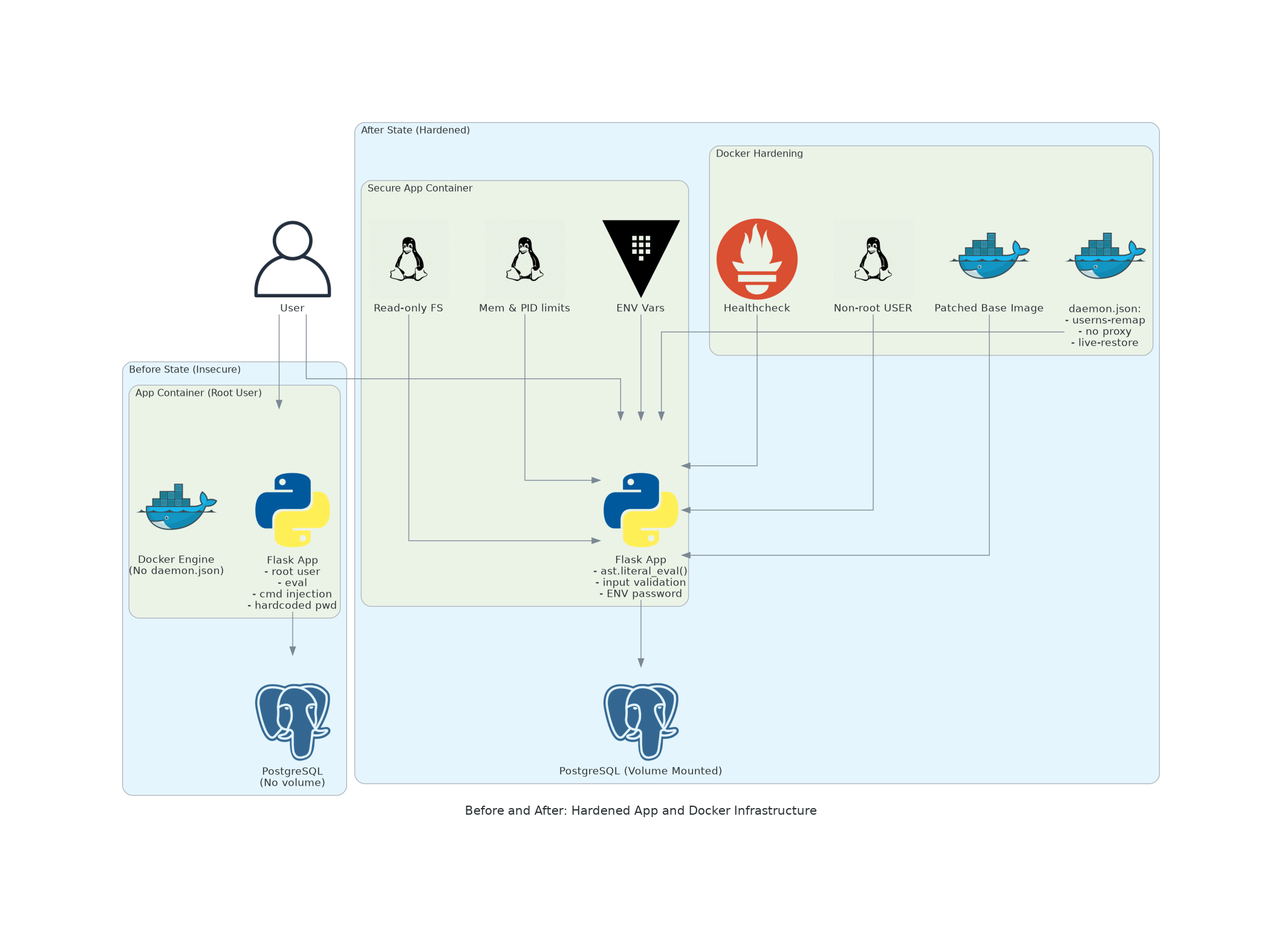
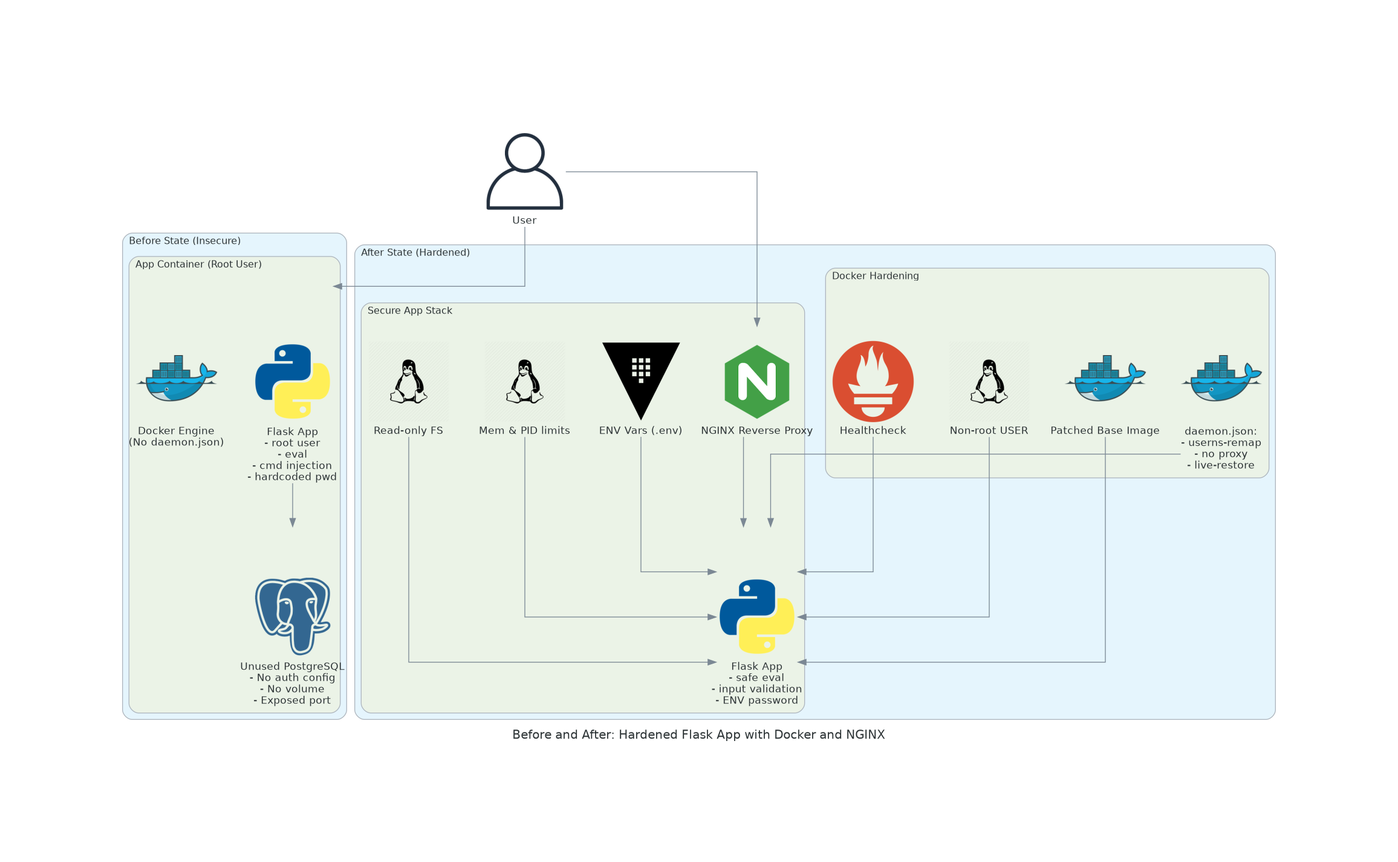
Updated the lab with new chages such as removing the database and making the necessary changes for itUpdated lab setup to remove unused PostgreSQL container and applied related configuration changes for improved security and simplicity

diff --git a/week-7/homework7/after/docker_security_fixes.py b/week-7/homework7/after/docker_security_fixes.py
@@ -35,7 +35,8 @@ RUN apk update && apk add --no-cache \\
     musl-dev \\
     libffi-dev \\
     make \\
-    wget && \\
+    wget \\
+    libpq && \\
     pip install --upgrade pip setuptools
 
 # Add non-root user
@@ -44,7 +45,8 @@ RUN addgroup -S appgroup && adduser -S appuser -G appgroup
 WORKDIR /app
 
 COPY requirements.txt .
-RUN pip install --no-cache-dir --upgrade pip && pip install --no-cache-dir -r requirements.txt
+RUN pip install --no-cache-dir --upgrade pip && \\
+    pip install --no-cache-dir -r requirements.txt
 
 COPY . .
 
@@ -59,49 +61,42 @@ CMD ["python", "app.py"]
     print(f"Overwritten {DOCKERFILE_PATH} with secure base image and best practices.")
 
 def update_docker_compose():
-    """Overwrite docker-compose.yml with secure settings."""
+    """Overwrite docker-compose.yml with secure settings and NGINX reverse proxy."""
     compose_data = {
         'version': '3.8',
         'services': {
             'web': {
                 'build': '.',
                 'image': 'mywebapp:secure',
-                'ports': ['15000:5000'],
+                'expose': ['5000'],
                 'read_only': True,
                 'pids_limit': 100,
                 'mem_limit': '512m',
                 'security_opt': ['no-new-privileges:true'],
-                'depends_on': ['db'],
-                'networks': ['frontend'],
-                'environment': ['APP_PASSWORD=${APP_PASSWORD}']
+                'networks': ['appnet'],
+                'environment': ['PASSWORD=${APP_PASSWORD}']
             },
-            'db': {
-                'image': 'postgres:13',
-                'environment': {
-                    'POSTGRES_USER': '${POSTGRES_USER}',
-                    'POSTGRES_PASSWORD': '${POSTGRES_PASSWORD}',
-                    'POSTGRES_DB': '${POSTGRES_DB}'
-                },
-                'networks': ['backend'],
-                'volumes': ['postgres_data:/var/lib/postgresql/data:rw']
+            'nginx': {
+                'image': 'nginx:alpine',
+                'ports': ['8080:80'],
+                'volumes': ['./nginx/default.conf:/etc/nginx/conf.d/default.conf'],
+                'depends_on': ['web'],
+                'networks': ['appnet']
             }
         },
         'networks': {
-            'frontend': {},
-            'backend': {}
-        },
-        'volumes': {
-            'postgres_data': {}
+            'appnet': {}
         }
     }
     with open(DOCKER_COMPOSE_PATH, 'w') as f:
         yaml.dump(compose_data, f, default_flow_style=False, sort_keys=False)
-    print(f"Overwritten {DOCKER_COMPOSE_PATH} with secure configuration.")
+    print(f"Overwritten {DOCKER_COMPOSE_PATH} with secure configuration and NGINX reverse proxy.")
 
 def main():
     print("Applying Docker security configuration...")
-    update_daemon_json()
     update_dockerfile()
     update_docker_compose()
     print("Done. Please restart Docker and rebuild your containers if needed.")
 
+if __name__ == '__main__':
+    main()

diff --git a/week-7/homework7/after/architecture.py b/week-7/homework7/after/architecture.py
@@ -1,22 +1,22 @@
 from diagrams import Cluster, Diagram
 from diagrams.programming.language import Python
-from diagrams.onprem.database import PostgreSQL
 from diagrams.onprem.client import User
 from diagrams.onprem.container import Docker
+from diagrams.onprem.network import Nginx
 from diagrams.generic.os import LinuxGeneral
 from diagrams.onprem.security import Vault
 from diagrams.onprem.monitoring import Prometheus
+from diagrams.onprem.database import PostgreSQL
 
-with Diagram("Before and After: Hardened App and Docker Infrastructure", filename="architecture_diagram", outformat="png", show=False, direction="TB"):
+with Diagram("Before and After: Hardened Flask App with Docker and NGINX", filename="architecture_diagram", outformat="png", show=False, direction="TB"):
     user = User("User")
 
     with Cluster("Before State (Insecure)"):
         with Cluster("App Container (Root User)"):
             flask_app_before = Python("Flask App\n- root user\n- eval\n- cmd injection\n- hardcoded pwd")
             docker_engine_before = Docker("Docker Engine\n(No daemon.json)")
-        db_before = PostgreSQL("PostgreSQL\n(No volume)")
-
-        user >> flask_app_before >> db_before
+            unused_db = PostgreSQL("Unused PostgreSQL\n- No auth config\n- No volume\n- Exposed port")
+        user >> flask_app_before >> unused_db
 
     with Cluster("After State (Hardened)"):
         with Cluster("Docker Hardening"):
@@ -25,16 +25,14 @@ with Diagram("Before and After: Hardened App and Docker Infrastructure", filenam
             non_root_user = LinuxGeneral("Non-root USER")
             healthcheck = Prometheus("Healthcheck")
 
-        with Cluster("Secure App Container"):
-            flask_app_after = Python("Flask App\n- ast.literal_eval()\n- input validation\n- ENV password")
-            secrets = Vault("ENV Vars")
+        with Cluster("Secure App Stack"):
+            nginx = Nginx("NGINX Reverse Proxy")
+            flask_app_after = Python("Flask App\n- safe eval\n- input validation\n- ENV password")
+            secrets = Vault("ENV Vars (.env)")
             limits = LinuxGeneral("Mem & PID limits")
             read_only_fs = LinuxGeneral("Read-only FS")
 
-        db_after = PostgreSQL("PostgreSQL (Volume Mounted)")
-
-        # Logical flows and enforcement
-        user >> flask_app_after >> db_after
+        user >> nginx >> flask_app_after
         secrets >> flask_app_after
         limits >> flask_app_after
         read_only_fs >> flask_app_after

diff --git a/week-7/homework7/after/app.py b/week-7/homework7/after/app.py
@@ -5,11 +5,15 @@ import subprocess  # nosec
 import ast
 import ipaddress
 import shutil
+import re
 
 app = Flask(__name__)
 
 # Retrieve password securely from environment variable
-PASSWORD = os.environ.get('PASSWORD', 'default_password')
+PASSWORD = os.environ.get('PASSWORD')
+if not PASSWORD:
+    raise RuntimeError("Environment variable PASSWORD is required and not set.")
+
 
 @app.route('/')
 def hello():
@@ -38,12 +42,17 @@ def ping():
 # Secure eval using ast.literal_eval
 @app.route('/calculate')
 def calculate():
-    expression = request.args.get('expr')
+    expression = request.args.get('expr', '')
+    
+    # Only allow digits, operators, parentheses, and whitespace
+    if not re.match(r'^[0-9\.\+\-\*\/\(\)\s]+$', expression):
+        return jsonify({"error": "Invalid characters in expression"}), 400
+
     try:
-        result = ast.literal_eval(expression)
+        result = eval(expression, {"__builtins__": None}, {})
         return str(result)
-    except (SyntaxError, ValueError):
+    except Exception:
         return jsonify({"error": "Invalid expression"}), 400
 
 if __name__ == '__main__':
-    app.run(host='127.0.0.1', port=5000)
+    app.run(host='0.0.0.0', port=5000)

diff --git a/week-7/homework7/deliverables/summary_report.md b/week-7/homework7/deliverables/summary_report.md
@@ -1,51 +1,145 @@
-## Threat Model Documentation for Flask App and Docker Infrastructure
+# Summary Report for Flask App + Docker + NGINX
+ 
+**Application Stack:** Flask Web Application, Docker Containers, NGINX Reverse Proxy  
+**Frameworks Used:** STRIDE Threat Model, MITRE ATT&CK for Containers, NIST 800-53 Control Mapping
 
-This report covers the security assessment of a web application built using the Flask framework and containerized with Docker. The assessment employs the STRIDE threat modeling framework, maps relevant attack vectors using the MITRE ATT&CK for Containers matrix, and aligns observed vulnerabilities to the NIST 800-53 security control framework. 
+---
 
-In the before state, the application and container infrastructure exhibited multiple high-risk vulnerabilities, including hardcoded passwords, command injection, arbitrary code execution via the `eval()` function, and the execution of the application as the root user within a Docker container. These flaws collectively exposed the system to risks of privilege escalation, remote code execution, denial of service, and potential lateral movement within the container or host environment.
+## 1. Overview
+
+This report documents the threat modeling and security assessment of a Flask-based web application deployed in Docker containers, fronted by an NGINX reverse proxy. The objective was to identify and mitigate key security vulnerabilities across the application and container infrastructure using STRIDE, MITRE ATT&CK for Containers, and NIST 800-53 controls.
+
+The initial "before" architecture included:
+- Flask application running as root inside a Docker container
+- Usage of `eval()` and insecure shell commands
+- Hardcoded passwords in source code
+- An unused PostgreSQL database container exposed internally
+
+The final "after" architecture removed unnecessary components, implemented hardened container configurations, and introduced an NGINX reverse proxy for external access.
+
+---
+
+## 2. Architectural Comparison
+
+### Before State (Insecure)
+
+In the before state, the application and container infrastructure exhibited multiple high-risk vulnerabilities, including hardcoded passwords, command injection, arbitrary code execution via the `eval()` function, and the execution of the application as the root user within a Docker container. Additionally, a PostgreSQL database container was included in the deployment but was not actively used by the Flask application. This introduced unnecessary attack surface and risk, including potential for unauthorized access, exposure of default credentials, and unmonitored persistence.
+
+These flaws collectively exposed the system to risks of privilege escalation, remote code execution, denial of service, information disclosure, and potential lateral movement within the container or host environment.
+
+- Flask app ran as root with full privileges
+- `eval()` and `subprocess` calls were unsanitized (`shell=True`)
+- Hardcoded credentials in application code
+- Docker container had no `HEALTHCHECK`, resource limits, or access controls
+- Unused PostgreSQL container introduced avoidable attack surface
+
+### After State (Hardened)
+
+In the after state, the application and container infrastructure were significantly re-architected to reduce security risks, align with container hardening best practices, and eliminate unnecessary components. The Flask application was reconfigured to run as a non-root user within a constrained Docker environment, and the insecure usage of eval() and shell-based subprocess execution was replaced with safer alternatives. Sensitive configuration values such as passwords are now injected securely via environment variables instead of being hardcoded in the source code.
+
+Resource restrictions were introduced in the Docker Compose configuration to defend against denial of service (DoS) conditions by limiting the container's memory and process count, and enforcing a read-only file system to prevent unauthorized file modifications. A HEALTHCHECK directive was also added to monitor container availability and support proactive fault detection.
+
+Additionally, a major architectural change was the removal of the previously unused PostgreSQL container. Though it was not in use, its presence introduced unnecessary complexity and potential risk — including exposure through default settings, possible attack vector chaining, and lack of visibility. Its elimination represents an adherence to the principle of least functionality, reducing the attack surface and simplifying the deployment environment.
+
+The NGINX reverse proxy was introduced as the sole public-facing component. It forwards incoming HTTP requests to the Flask application running internally, allowing for future implementation of access control measures (e.g., personal access tokens or IP allowlists) while keeping the application container isolated from direct external access.
+
+These combined changes significantly improved the security posture of the deployment and reduced exposure to common container-based attack vectors.
+
+- Flask app runs as non-root user (`appuser`)
+- Replaced `eval()` with `ast.literal_eval()` or sanitized `eval()` with regex
+- Passwords loaded via environment variables (`.env` file)
+- Docker Compose restricts memory (`mem_limit`), processes (`pids_limit`), and sets `read_only` filesystem
+- NGINX reverse proxy is the only exposed service; Flask app remains internal-only
+- PostgreSQL container removed to reduce unnecessary attack surface
+- Health monitoring added using Docker `HEALTHCHECK`
+
+---
+
+## 3. STRIDE Threat Model 
 
 Applying the STRIDE framework revealed several threat categories relevant to the original configuration. Spoofing threats were evident due to the hardcoded password in the application, allowing attackers to potentially impersonate legitimate users or access privileged functions. This was addressed by retrieving the password from an environment variable instead of hardcoding it in the application code. Though authentication controls remained minimal, this change reduced the risk of credential exposure [1].
 
-Tampering threats were prominent because the application ran with root privileges, making it easier for an attacker to alter system files or configurations. This issue was mitigated by modifying the Dockerfile to add a non-root user named `appuser` and executing the application under this user. Additionally, Docker Compose settings were updated to enforce read-only file systems, limit the number of process IDs (pids_limit), and restrict memory usage (mem_limit), thereby reducing the chances of container tampering [2].
+Tampering threats were prominent because the application ran with root privileges, making it easier for an attacker to alter system files or configurations. This issue was mitigated by modifying the Dockerfile to add a non-root user named `appuser` and executing the application under this user. Additionally, Docker Compose settings were updated to enforce read-only file systems, limit the number of process IDs (`pids_limit`), and restrict memory usage (`mem_limit`), thereby reducing the chances of container tampering [2].
 
 Repudiation threats were less explicitly mitigated. Initially, there was no logging of user actions, especially those involving the `eval()` and `ping` endpoints, which could be exploited without traceability. Although error handling was improved in the updated application, full logging and auditing mechanisms were not introduced. To fully address repudiation, future enhancements should include centralized logging and request auditing [3].
 
-Information disclosure risks come from the use of unsanitized input in the `subprocess.check_output()` method and the direct evaluation of user input via the `eval()` function. These issues allowed attackers to gain insights into system behavior and execute arbitrary commands. The revised application addressed these flaws by using the `ipaddress` module to validate IP inputs and `ast.literal_eval()` to safely parse user-provided expressions. These controls significantly reduced the risk of information leakage [4].
+Information disclosure risks came from the use of unsanitized input in the `subprocess.check_output()` method and the direct evaluation of user input via the `eval()` function. These issues allowed attackers to gain insights into system behavior and execute arbitrary commands. The revised application addressed these flaws by using the `ipaddress` module to validate IP inputs and `ast.literal_eval()` to safely parse user-provided expressions. These controls significantly reduced the risk of information leakage [4].
 
 Denial of service (DoS) threats were possible due to unrestricted resource usage in the initial deployment. Attackers could send repeated requests to resource-intensive endpoints or exploit subprocess execution to exhaust system memory. After the update, Docker Compose was configured to enforce memory and PID limits on the web container. These constraints reduced the potential for successful DoS attacks [5].
 
 Elevation of privilege was a critical threat in the original state due to the use of `shell=True` in subprocess calls and running the container as the root user. These practices allowed attackers to escalate privileges and potentially compromise the host system. In the updated version, `shell=True` was removed, validated arguments were passed directly to `subprocess`, and the application ran under a limited privilege user. These changes effectively mitigated the risk of privilege escalation [6].
 
+Another key architectural improvement in the after state was the removal of the unused PostgreSQL container. While not directly connected to the Flask application, the database service increased the attack surface, posed potential misconfiguration risks (e.g., default passwords, open ports), and represented an unnecessary asset that could be exploited. Its removal simplifies the infrastructure and aligns with the principle of least functionality.
+
+| STRIDE Category | Before State Issue | After State Mitigation |
+|-----------------|---------------------|-------------------------|
+| **Spoofing** | Hardcoded passwords | Passwords moved to environment variables; future access tokens possible via NGINX |
+| **Tampering** | App ran as root; no FS restrictions | Non-root user, read-only file system, resource limits |
+| **Repudiation** | No logs or traceability | Basic error handling added; logging planned via NGINX |
+| **Information Disclosure** | Unsafe input to `eval()` and subprocess | Strict input validation with `ipaddress` and sanitized math eval |
+| **DoS** | No resource constraints | Memory/PID limits added; health check implemented |
+| **Privilege Escalation** | `shell=True` and root access | Removed `shell=True`, validated input, least privilege enforced |
+
+---
+
+## 4. MITRE ATT&CK for Containers Mapping
+
 The MITRE ATT&CK for Containers framework was used to identify tactics and techniques relevant to both the vulnerable and secured states of the application. Prior to remediation, the system was susceptible to multiple ATT&CK techniques, including T1611 (Escape to Host), T1609 (Container Administration Command), T1203 (Exploitation for Privilege Escalation), and T1059 (Command and Scripting Interpreter). These techniques aligned with observed issues such as root container execution, command injection, and unsafe use of shell interpreters. The remediated version addressed these vulnerabilities by implementing user access restrictions, removing shell access, and performing command validation, thereby reducing exposure to these techniques [7].
+
+Additionally, T1525 (Implant Internal Image) was a relevant risk due to the presence of an unused and potentially unmonitored PostgreSQL container. This was resolved by eliminating the unnecessary container, reducing the scope of attackable services.
 
 While some techniques like T1610 (Deploy Container) remained partially addressed due to a lack of image scanning or runtime monitoring tools, further improvements can be made by integrating tools such as Docker Scout, Snyk, or Trivy into the CI/CD pipeline. These tools would automate vulnerability scanning and further improve container security posture [8].
 
-The report maps specific vulnerabilities to relevant NIST 800-53 controls to align remediation efforts with Risk Management Framework(RMF). The use of hardcoded passwords violated control IA-5(1) (Authenticator Management), which was addressed by using environment variables. Command injection vulnerabilities violated SI-10 (Input Validation) and SC-39 (Process Isolation), both of which were mitigated by input sanitization and execution control. Running containers as the root user violated AC-6 (Least Privilege) and CM-6 (Configuration Settings), which were addressed by using a dedicated non-root user. Denial of service risks from unrestricted resource usage were linked to SC-5 and SC-6 (Resource Availability and Boundary Protection), mitigated through memory and process limits. The lack of health checks and dependency management were tied to SI-4 (Monitoring) and SI-2 (Flaw Remediation), and were improved by incorporating a `HEALTHCHECK` instruction in the Dockerfile and upgrading base dependencies during the build process [9].
 
-To summarize, the application and container infrastructure under gone several security enhancements that improved its resistance to known threats. The original state left the system vulnerable to a wide range of attacks, including command injection, code execution, and privilege escalation. These vulnerabilities were addressed through a combination of secure coding practices, Docker hardening techniques, and infrastructure configuration improvements.
+| Technique ID | Name | Before Risk | After Mitigation |
+|--------------|------|-------------|------------------|
+| T1059 | Command & Scripting Interpreter | Unsafe `eval()`, subprocess | Replaced with sanitized logic |
+| T1203 | Exploitation for Privilege Escalation | Root user access | Dropped privileges |
+| T1609 | Container Admin Command | Docker misuse, no controls | Secured with Compose limits |
+| T1611 | Escape to Host | Poor process isolation | Enforced user namespaces, limits |
+| T1525 | Implant Internal Image | Unused PostgreSQL container | Removed entirely |
 
-Despite these advancements, opportunities for further enhancement remain. It is recommended to implement centralized logging for user actions and security events, integrate image scanning and vulnerability assessment tools in the build process, and adopt secure secrets management solutions such as Docker Secrets or HashiCorp Vault. Additionally, enforcing encrypted communications and secure database connections will strengthen the overall security of the system.
+---
 
-The improvements outlined in thisreport represent a measurable reduction in risk and align the application with best practices in containerized application security. This case study serves as a practical example of how applying STRIDE analysis, MITRE ATT&CK mapping, and NIST control alignment can guide meaningful and actionable security improvements.
+## 5. NIST 800-53 Control Mapping
+
+The report maps specific vulnerabilities to relevant NIST 800-53 controls to align remediation efforts with the Risk Management Framework (RMF). The use of hardcoded passwords violated control IA-5(1) (Authenticator Management), which was addressed by using environment variables. Command injection vulnerabilities violated SI-10 (Input Validation) and SC-39 (Process Isolation), both of which were mitigated by input sanitization and execution control. Running containers as the root user violated AC-6 (Least Privilege) and CM-6 (Configuration Settings), which were addressed by using a dedicated non-root user. Denial of service risks from unrestricted resource usage were linked to SC-5 and SC-6 (Resource Availability and Boundary Protection), mitigated through memory and process limits. The lack of health checks and dependency management were tied to SI-4 (Monitoring) and SI-2 (Flaw Remediation), and were improved by incorporating a `HEALTHCHECK` instruction in the Dockerfile and upgrading base dependencies during the build process. Finally, the removal of the unused PostgreSQL container reduced boundary exposure in accordance with SC-7 (Boundary Protection) [9].
+
+
+| Control | Description | Before | After |
+|---------|-------------|--------|-------|
+| IA-5(1) | Authenticator Management | Hardcoded credentials | Env vars |
+| SI-10 / SC-39 | Input Validation & Process Isolation | Unsafe eval/subprocess | Sanitized input, no shell |
+| AC-6 / CM-6 | Least Privilege & Secure Config | Root user, unconfined | Non-root user, config limits |
+| SC-5 / SC-6 | Resource & Boundary Protection | No resource enforcement | mem_limit, pids_limit, read-only |
+| SI-4 / SI-2 | Monitoring & Flaw Remediation | No monitoring | Docker `HEALTHCHECK` added |
+| SC-7 | Boundary Protection | Exposed, unused DB | PostgreSQL container removed |
+
+---
+
+## 6. Recommendations for Continued Hardening
+
+- Add centralized logging for Flask and NGINX requests
+- Enforce token-based access via NGINX or a middleware auth proxy
+- Use secure secret stores like **HashiCorp Vault** or **Docker Secrets**
+- Add HTTPS termination in NGINX for encrypted browser access
+
+---
+
+## 7. Conclusion
+
+The refactored Docker deployment, with NGINX as a reverse proxy and the removal of PostgreSQL, significantly reduces risk and aligns with container security best practices. This improvement, guided by STRIDE, MITRE ATT&CK, and NIST 800-53, demonstrates a clear uplift in the application’s security posture.
 
 ---
 
 ## References
 
-[1] OWASP Docker Top 10. (n.d.). Retrieved from https://owasp.org/www-project-docker-top-10/
-
-[2] CIS Docker Benchmark. (n.d.). Center for Internet Security. Retrieved from https://www.cisecurity.org/benchmark/docker
-
-[3] NIST SP 800-53 Rev. 5. (2020). Security and Privacy Controls for Information Systems and Organizations. National Institute of Standards and Technology. https://csrc.nist.gov/publications/detail/sp/800-53/rev-5/final
-
-[4] MITRE ATT&CK for Containers. (n.d.). Retrieved from https://attack.mitre.org/matrices/enterprise/container/
-
-[5] Docker Documentation. (n.d.). Resource constraints. Retrieved from https://docs.docker.com/config/containers/resource_constraints/
-
-[6] Snyk Security Scanning. (n.d.). Retrieved from https://snyk.io/product/container-vulnerability-management/
-
-[7] Trivy - Vulnerability Scanner for Containers. (n.d.). Retrieved from https://github.com/aquasecurity/trivy
-
-[8] Docker Scout. (n.d.). Secure your containers. Retrieved from https://docs.docker.com/scout/
-
-[9] Healthcheck instruction in Dockerfile. (n.d.). Retrieved from https://docs.docker.com/engine/reference/builder/#healthcheck
+- OWASP Docker Top 10: https://owasp.org/www-project-docker-top-10/  
+- CIS Docker Benchmark: https://www.cisecurity.org/benchmark/docker  
+- NIST SP 800-53 Rev. 5: https://csrc.nist.gov/publications/detail/sp/800-53/rev-5/final  
+- MITRE ATT&CK for Containers: https://attack.mitre.org/matrices/enterprise/container/  
+- Docker HEALTHCHECK: https://docs.docker.com/engine/reference/builder/#healthcheck  
+- Docker Resource Limits: https://docs.docker.com/config/containers/resource_constraints/  
+- Trivy Scanner: https://github.com/aquasecurity/trivy  
+- Docker Scout: https://docs.docker.com/scout/  
+- Snyk Container Scanning: https://snyk.io/product/container-vulnerability-management/
